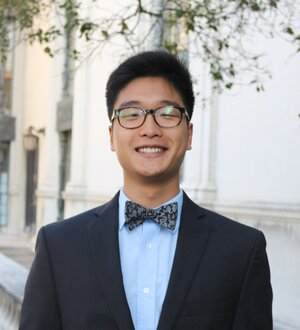
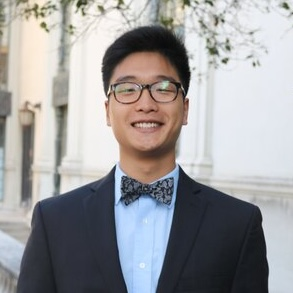
Added session dates for 24-25, new mentor photos and a dedicated page for mentors

diff --git a/index.html b/index.html
@@ -7,10 +7,74 @@ header:
   caption: Symposium 2024
 author_profile: true
 sidebar:
-  - title: "For mentors:"
-  - text: "Request [reimbursements](https://forms.gle/nJXruXra2bmy6vFT9)"
-  - text: "Find resources and materials in our shared Google Drive"
-  - text: "Get important communication via our [Slack](https://stanfordfast.slack.com/), Remind, and email listserv"
+- title: "For mentors:"
+- text: "Request [reimbursements](https://forms.gle/nJXruXra2bmy6vFT9)"
+- text: "Find resources and materials in our shared Google Drive"
+- text: "Get important communication via our [Slack](https://stanfordfast.slack.com/), Remind, and email listserv"
+sidebar:
+  - title: "Session Schedule:"
+  - text: "<table>
+    <tr>
+        <th>Session #</th>
+        <th>Date</th>
+    </tr>
+    <tr>
+        <td>0</td>
+        <td>08/24/24</td>
+    </tr>
+    <tr>
+        <td>1</td>
+        <td>09/07/24</td>
+    </tr>
+    <tr>
+        <td>2</td>
+        <td>09/21/24</td>
+    </tr>
+    <tr>
+        <td>3</td>
+        <td>09/28/24</td>
+    </tr>
+    <tr>
+        <td>4</td>
+        <td>10/19/24</td>
+    </tr>
+    <tr>
+        <td>5</td>
+        <td>11/02/24</td>
+    </tr>
+    <tr>
+        <td>6</td>
+        <td>11/16/24</td>
+    </tr>
+    <tr>
+        <td>7</td>
+        <td>12/07/24</td>
+    </tr>
+    <tr>
+        <td>8</td>
+        <td>12/14/24</td>
+    </tr>
+    <tr>
+        <td>9</td>
+        <td>01/11/25</td>
+    </tr>
+    <tr>
+        <td>10</td>
+        <td>01/25/25</td>
+    </tr>
+    <tr>
+        <td>11</td>
+        <td>02/08/25</td>
+    </tr>
+    <tr>
+        <td>12</td>
+        <td>03/01/25</td>
+    </tr>
+    <tr>
+        <td>13</td>
+        <td>03/15/25</td>
+    </tr>
+</table>"
 ---
 
 <h1 align="center">Welcome to FAST 2024-25!</h1>

diff --git a/_pages/about.md b/_pages/about.md
@@ -45,7 +45,7 @@ Feel free to contact us with any questions, comments, or concerns!
 </div>
 
 <div class="mentor-card" style="text-align: center;">
-    <img src="/assets/images/2024-25/mentors/placeholder.jpg" />
+    <img src="/assets/images/2024-25/mentors/nathalie_hong.jpg" />
     <p> <b>Nathalie Hong</b> <br> Chemistry </p>
     <p> Andrew Hill Deputy Program Officer, Grant Writing Team</p>
 </div>
@@ -57,7 +57,7 @@ Feel free to contact us with any questions, comments, or concerns!
 </div>
 
 <div class="mentor-card" style="text-align: center;">
-    <img src="/assets/images/2024-25/mentors/Cindy_Shi.jpg" />
+    <img src="/assets/images/2024-25/mentors/cindy_shi.jpg" />
     <p> <b>Cindy Shi</b> <br>  Material Science and Engineering</p>
     <p> James Lick Chief Program Officer </p>
 </div>
@@ -111,7 +111,7 @@ Feel free to contact us with any questions, comments, or concerns!
 </div>
 
 <div class="mentor-card" style="text-align: center;">
-    <img src="/assets/images/2024-25/mentors/placeholder.jpg" />
+    <img src="/assets/images/2024-25/mentors/lucy_wang.jpg" />
     <p> <b>Lucy Wang</b> <br> Material Science and Engineering </p>
     <p> Outcomes Officer </p>
 </div>
@@ -140,15 +140,76 @@ Feel free to contact us with any questions, comments, or concerns!
     <p> Science Fair Coordinator </p>
 </div>
 
-<div class="mentor-card" style="text-align: center;">
-    <img src="/assets/images/2024-25/mentors/luke_zhao.jpg" />
-    <p> <b>Luke Zhao</b> <br>  Biology</p>
-    <p> Science Fair Coordinator </p>
+<div style="text-align: center;">
+    <div class="mentor-card" style="text-align: center;">
+        <img src="/assets/images/2024-25/mentors/luke_zhao.jpg" />
+        <p> <b>Luke Zhao</b> <br>  Biology</p>
+        <p> Science Fair Coordinator </p>
+    </div>
+    
+    <div class="mentor-card" style="text-align: center;">
+        <img src="/assets/images/2024-25/mentors/nora_enright.jpg" />
+        <p> <b>Nora Enright</b> <br>  Bioengineering</p>
+        <p> Partnership Development Officer </p>
+    </div>
 </div>
 
 <div class="mentor-card" style="text-align: center;">
-    <img src="/assets/images/2024-25/mentors/nora_enright.jpg" />
-    <p> <b>Nora Enright</b> <br>  Bioengineering</p>
-    <p> Partnership Development Officer </p>
+    <img src="/assets/images/2024-25/mentors/ammar_ratnani.jpg" />
+    <p> <b>Ammar Ratnani</b> <br>  Computer Science</p>
+    <p> Mentor </p>
 </div>
 
+<div class="mentor-card" style="text-align: center;">
+    <img src="/assets/images/2024-25/mentors/placeholder.jpg" />
+    <p> <b>Jinze Wu</b> <br>  Physics</p>
+    <p> Mentor </p>
+</div>
+
+<div class="mentor-card" style="text-align: center;">
+    <img src="/assets/images/2024-25/mentors/placeholder.jpg" />
+    <p> <b>Gautham Ravipati</b> <br>  Electrical Engineering</p>
+    <p> Mentor </p>
+</div>
+
+<div class="mentor-card" style="text-align: center;">
+    <img src="/assets/images/2024-25/mentors/katherine_yan.jpg" />
+    <p> <b>Katherine Yan</b> <br>  Chemical Engineering</p>
+    <p> Mentor </p>
+</div>
+
+<div class="mentor-card" style="text-align: center;">
+    <img src="/assets/images/2024-25/mentors/nico_robalin.jpg" />
+    <p> <b>Nico Robalin</b> <br>  Chemistry</p>
+    <p> Mentor </p>
+</div>
+
+<div class="mentor-card" style="text-align: center;">
+    <img src="/assets/images/2024-25/mentors/nitya_thakkar.jpg" />
+    <p> <b>Nitya Thakker</b> <br>  Computer Science</p>
+    <p> Mentor </p>
+</div>
+
+<div class="mentor-card" style="text-align: center;">
+    <img src="/assets/images/2024-25/mentors/placeholder.jpg" />
+    <p> <b>Sai Varanasi</b> <br>  Chemistry</p>
+    <p> Mentor </p>
+</div>
+
+<div class="mentor-card" style="text-align: center;">
+    <img src="/assets/images/2024-25/mentors/scott_berger.jpg" />
+    <p> <b>Scott Berger</b> <br>  Biophysics</p>
+    <p> Mentor </p>
+</div>
+
+<div class="mentor-card" style="text-align: center;">
+    <img src="/assets/images/2024-25/mentors/wiley_yu.jpg" />
+    <p> <b>Wiley Yu</b> <br>  Materials Science and Engineering</p>
+    <p> Mentor </p>
+</div>
+
+<div class="mentor-card" style="text-align: center;">
+    <img src="/assets/images/2024-25/mentors/placeholder.jpg" />
+    <p> <b>Ziping Ye</b> <br>  Health Policy</p>
+    <p> Mentor </p>
+</div>

diff --git a/_posts/2024-09-07-session-1.md b/_posts/2024-09-07-session-1.md
@@ -1,0 +1,19 @@
+---
+title: "Session 1"
+date: 2024-09-07
+layout: single
+classes: wide
+categories:
+  - 2024-25
+tags:
+  - session
+---
+
+Schedule:
+- 12 - 12:30 Lunch
+- 12:30 - 1:00 Welcome to FAST
+- 1:00 - 3:45 Rotations (Paper Circuits, Soil Microscopy, and Scientist Spotlights)
+- 4:00 - 4:30 Mentors vs. students trivia
+- 4:30 - 5:00 Clean up
+
+<p align="center"> Thanks for coming! </p>

diff --git a/_pages/for-mentors.md b/_pages/for-mentors.md
@@ -1,0 +1,10 @@
+---
+title: For Mentors
+permalink: /mentors/
+layout: single
+classes: wide
+---
+
+<div>Request <a href="https://forms.gle/nJXruXra2bmy6vFT9">reimbursements</a></div>
+<div>Find resources and materials in our shared Google Drive</div>
+<div>Get important communication via our <a href="https://stanfordfast.slack.com/">Slack</a>, Remind, and email listserv</div> 

diff --git a/_posts/2024-08-29-session-0.md b/_posts/2024-08-29-session-0.md
@@ -1,6 +1,6 @@
 ---
 title: "Session 0"
-date: 2023-08-26
+date: 2024-08-26
 layout: single
 classes: wide
 categories:
